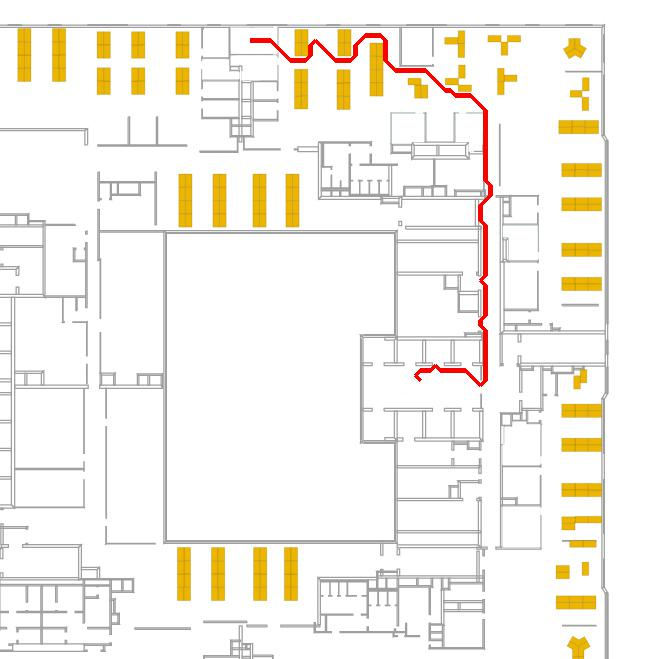
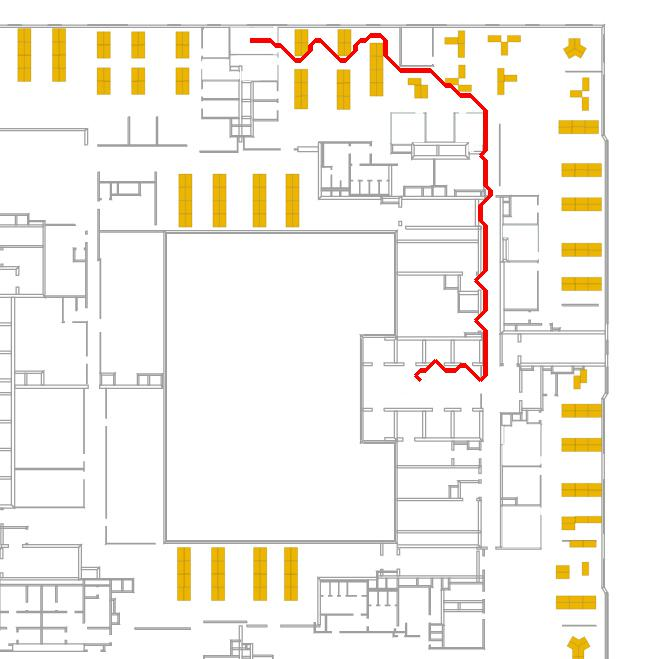
Fixes

diff --git a/pathfinder/pathfinder.py b/pathfinder/pathfinder.py
@@ -3,6 +3,15 @@
 from pathfinder import node, layout
 
 
+def _get_euclidean_distance(node1, node2):
+
+    x1 = node.get_x(node1)
+    x2 = node.get_x(node2)
+    y1 = node.get_y(node1)
+    y2 = node.get_y(node2)
+    return ((x1 - x2) ** 2 + (y1 - y2) ** 2) ** (1/2)
+
+
 def _heuristic_cost_estimate(node1: dict, node2: dict):
     """Heuristic cost estimate
     Read more:
@@ -13,14 +22,10 @@ def _heuristic_cost_estimate(node1: dict, node2: dict):
     :return: value of heuristic cost
     """
 
-    x1 = node.get_x(node1)
-    x2 = node.get_x(node2)
-    y1 = node.get_y(node1)
-    y2 = node.get_y(node2)
-    return ((x1 - x2) ** 2 + (y1 - y2) ** 2) ** (1/2)
+    return _get_euclidean_distance(node1, node2)
 
 
-def _dist_between(next_node, outline):
+def _dist_between(node1, node2, outline):
     """Distance between nodes.
 
     :param node: node
@@ -28,10 +33,10 @@ def _dist_between(next_node, outline):
     :return: distance with weight
     """
 
-    x = next_node['x']
-    y = next_node['y']
+    x = node2['x']
+    y = node2['y']
     weight = 255 - outline[y][x]
-    return weight
+    return weight * _get_euclidean_distance(node1, node2)
 
 
 def get_path(start_x: int,
@@ -83,7 +88,8 @@ def get_path(start_x: int,
             if node.in_list(neighbor, close_list):
                 continue
 
-            temp_g = node.get_g(current) + _dist_between(neighbor,
+            temp_g = node.get_g(current) + _dist_between(current,
+                                                         neighbor,
                                                          outline)
 
             if not node.in_list(neighbor, open_list):

diff --git a/pathfinder/layout.py b/pathfinder/layout.py
@@ -6,7 +6,6 @@ import numpy as np
 from pathfinder import image_manager
 
 GRAYSCALEMOD = 'L'
-BLACKWHITEMOD = '1'
 WHITE = 255
 BLACK = 0
 
@@ -25,21 +24,21 @@ def read(path: str, reduce_factor=5, white_value=240) -> dict:
     outline = image.copy()
     outline = outline.reduce(reduce_factor)
     outline = outline.convert(GRAYSCALEMOD)
-    outline.point(lambda x: WHITE if x > white_value else BLACK,
-                  BLACKWHITEMOD)
     outline = np.array(outline)
     y_min, x_min = (0, 0)
-    y_max, x_max = outline.shape
+    y_max, x_max = [c_max - 1 for c_max in outline.shape]
 
     return {'image': image,
             'image_path': None,
             'outline': {
                 'data': outline,
                 'reduce_factor': reduce_factor,
-                'x_min': x_min,
-                'y_min': y_min,
-                'x_max': x_max,
-                'y_max': y_max
+                'bounds': {
+                    'x_min': x_min,
+                    'y_min': y_min,
+                    'x_max': x_max,
+                    'y_max': y_max
+                }
             }}
 
 
@@ -103,10 +102,7 @@ def get_bounds(layout: dict) -> dict:
     :return: dict of bounds
     """
 
-    keys = ['x_min', 'x_max', 'y_min', 'y_max']
-    return {
-        key: value for key, value in layout['outline'].items() if key in keys
-    }
+    return layout['outline']['bounds']
 
 
 def get_reduce_factor(layout: dict) -> int:
